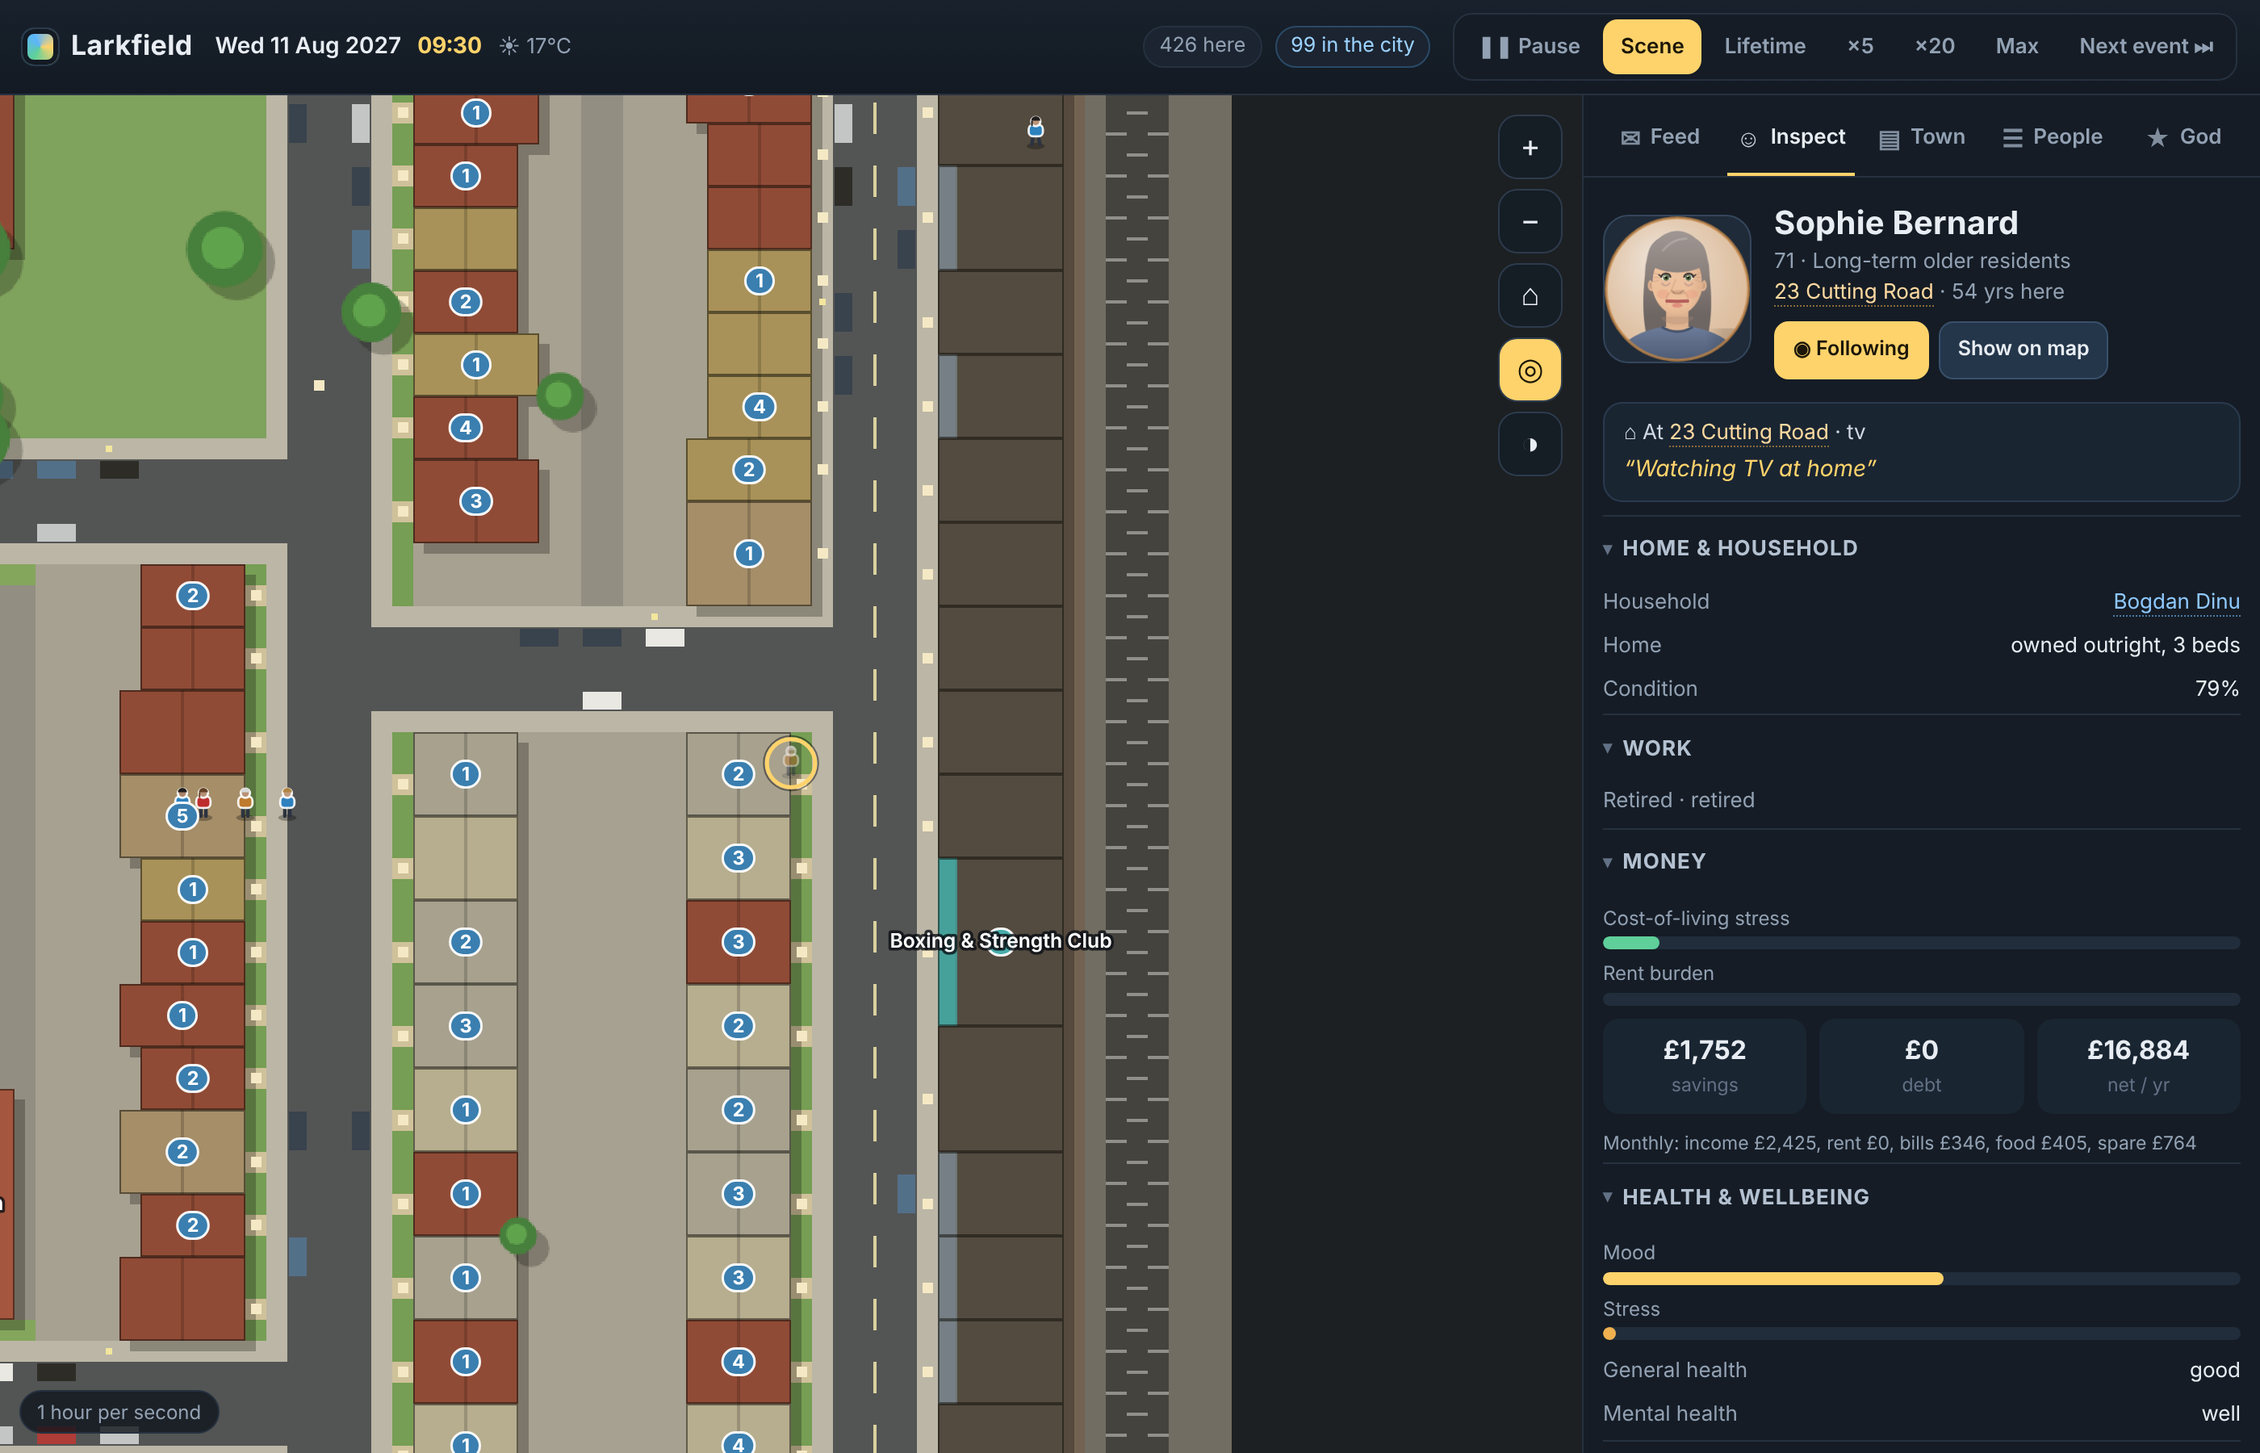
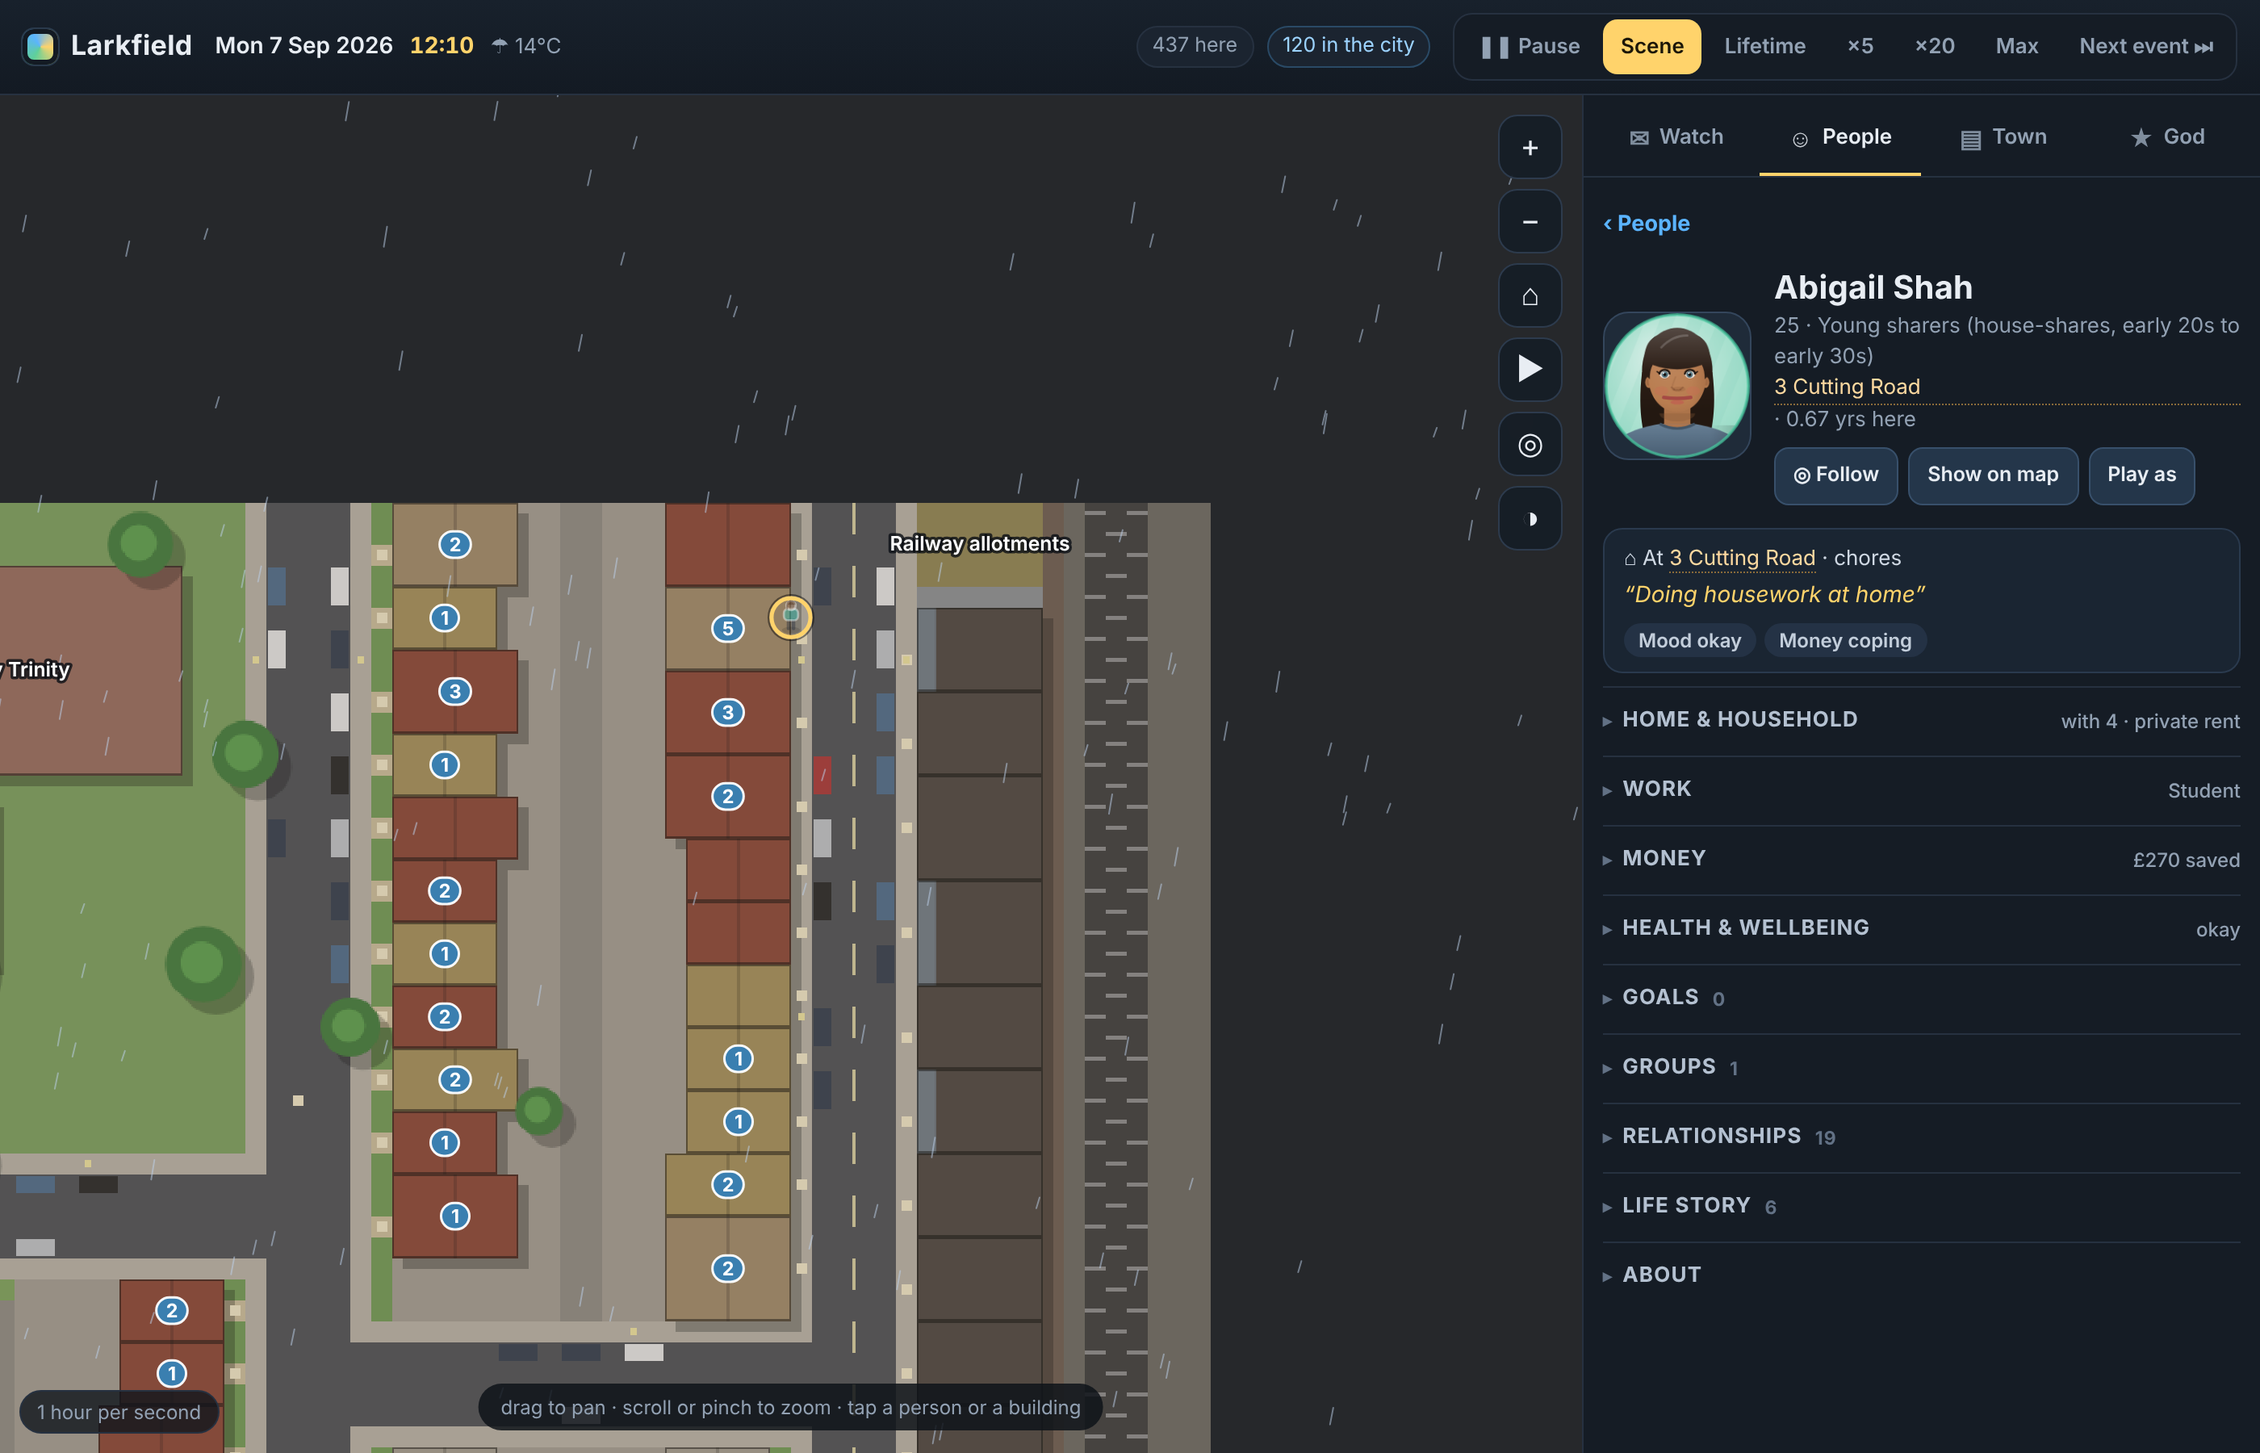
UX declutter: mobile-first top bar, 4 tabs, collapsible inspector, calmer map, request inbox
Claude-Session: https://claude.ai/code/session_01DcM8jrcfUiTx2JBZw8SC2u

diff --git a/ui/play/play.js b/ui/play/play.js
@@ -32,7 +32,7 @@ export function mountPlay(store, hooks) {
       <div class="pmini"><span title="Money">${gbp(s.money)}</span><span title="Energy"><i class="pbar"><b style="width:${Math.round(en * 100)}%;background:${en < 0.3 ? 'var(--bad)' : en < 0.55 ? 'var(--warn)' : 'var(--good)'}"></b></i></span><span title="Mood">${MOOD(s.mood)}</span></div>
       <button class="pdo" id="pdo">Do${req ? `<em>${req > 9 ? '9+' : req}</em>` : ''}</button>`;
     const r = s.reqs.find((x) => x.notable), rest = s.reqs.length - (r ? 1 : 0); // one weighty ask at a time; the rest wait in the Do menu inbox
-    if (r && sheet.hidden) { card.hidden = false; card.innerHTML = `<div class="pq"><b>${esc(r.from.name)}</b> ${esc(r.text)}${r.why ? `<small>${esc(cap(r.why))}</small>` : ''}</div><div class="pa"><button data-ans="yes">Yes</button><button data-ans="maybe">Maybe</button><button data-ans="no">Not now</button></div>${rest ? `<small class="pmore">${rest} more in your inbox</small>` : ''}`; card.dataset.rid = r.id; }
+    if (r && sheet.hidden) { card.hidden = false; card.innerHTML = `<div class="pq"><b>${esc(r.from.name)}</b> ${esc(r.text)}${r.why ? `<small>Trying to ${esc(r.why)}</small>` : ''}</div><div class="pa"><button data-ans="yes">Yes</button><button data-ans="maybe">Maybe</button><button data-ans="no">Not now</button></div>${rest ? `<small class="pmore">${rest} more in your inbox</small>` : ''}`; card.dataset.rid = r.id; }
     else card.hidden = true;
   }
   card.addEventListener('click', (e) => { const b = e.target.closest('[data-ans]'); if (!b) return; doit('player.respond', { request: +card.dataset.rid, answer: b.dataset.ans }); card.hidden = true; resume(); });
@@ -72,7 +72,7 @@ export function mountPlay(store, hooks) {
   // ---------------------------------------------------------------- views
   function menuView(s) {
     const here = s.here || [], inbox = s.reqs || [];
-    const ibx = inbox.length ? `<h5>Waiting for you <small>${inbox.length}</small></h5>${inbox.slice(0, 8).map((r) => `<div class="preq"><div class="pq"><b>${esc(r.from.name)}</b> ${esc(r.text)}${r.why ? `<small>${esc(cap(r.why))}</small>` : ''}</div><div class="pa"><button data-ans="yes" data-rid="${r.id}">Yes</button><button data-ans="maybe" data-rid="${r.id}">Maybe</button><button data-ans="no" data-rid="${r.id}">Not now</button></div></div>`).join('')}${inbox.length > 8 ? `<p class="pdim">${inbox.length - 8} more; they lapse if ignored.</p>` : ''}` : '';
+    const ibx = inbox.length ? `<h5>Waiting for you <small>${inbox.length}</small></h5>${inbox.slice(0, 8).map((r) => `<div class="preq"><div class="pq"><b>${esc(r.from.name)}</b> ${esc(r.text)}${r.why ? `<small>Trying to ${esc(r.why)}</small>` : ''}</div><div class="pa"><button data-ans="yes" data-rid="${r.id}">Yes</button><button data-ans="maybe" data-rid="${r.id}">Maybe</button><button data-ans="no" data-rid="${r.id}">Not now</button></div></div>`).join('')}${inbox.length > 8 ? `<p class="pdim">${inbox.length - 8} more; they lapse if ignored.</p>` : ''}` : '';
     return head(esc(s.name)) + `<div class="pbody">
       <p class="pthought">${esc(s.thought || '')}</p>${ibx}
       ${here.length ? `<h5>Here with you</h5><div class="pchips">${here.map((x) => `<button class="pchip" data-talk="${x.id}">${esc(x.name)}<small>${x.known ? warmWord(x.l) : 'stranger'}</small></button>`).join('')}</div>` : `<p class="pdim">${s.off ? 'You are away in the city.' : 'Nobody else is here right now.'}</p>`}

diff --git a/sim/systems/housing/index.js b/sim/systems/housing/index.js
@@ -208,7 +208,7 @@ export function createHousing() {
       else if (short === 0) hh.crowded = false;
       // student-let tenancies end with the course: once nobody in a student household is studying (graduated / dropped out / working) they give notice
       // at ~10%/month (12-month ASTs, graduate jobs elsewhere) and the unit goes back to the student market
-      if (hh.seg === 'students' && !isSharers(hh) && !hh.search && !hh.departAt && S.autoMoves && !ps.some((p) => p.ext.pop.activity === 'student') && rng.chance(0.10)) { hh.departAt = tick + rng.int(0, 2) * MONTH; hh.departWhy = 'graduated'; hh.departCause = 0; hh.departDest = 'elsewhere'; }
+      if (hh.seg === 'students' && !isSharers(hh) && !hh.search && !hh.departAt && S.autoMoves && !ps.some(studying) && rng.chance(0.10)) { hh.departAt = tick + rng.int(0, 2) * MONTH; hh.departWhy = 'graduated'; hh.departCause = 0; hh.departDest = 'elsewhere'; }
       if (!hh.search && !hh.departAt && S.autoMoves) {
         if (isSharers(hh)) { sharerRotation(hh, ps, adults, seg, rng); }
         else {
@@ -313,12 +313,13 @@ export function createHousing() {
       if (w.commands.has('labour.depart')) w.cmd('labour.depart', { pid: p.id }); p.emigrated = true; p.emigratedTick = w.tick; p.emigratedTo = 'metropolis'; w.removePerson(p); hh.members.push(p.id); S.stats.movedPersons++; S.moveLog.push([w.tick, Math.round(w.ageOf(p)), 'out']); void eid;
     }
   }
+  const studying = (p) => p.ext.pop.activity === 'student' || (p.ext.pop.school && (p.ext.pop.school.kind === 'university' || p.ext.pop.school.kind === 'college')); // working students still study
   function sharerRotation(hh, ps, adults, seg, rng) {
     const w = W, S = H(w), rate = hh.seg === 'students' ? 0.014 : hh.seg === 'young_sharers' ? 0.010 : 0.005;
     for (const p of adults) {
       // student-let tenancies end with the course: a former student (graduated, dropped out) in a student house gives notice at ~10%/month
       // (tenancy ends / graduate job elsewhere); the vacant room is re-let to the next cohort (pendingRooms)
-      const r = hh.seg === 'students' && p.ext.pop.activity !== 'student' ? 0.10 : rate;
+      const r = hh.seg === 'students' && !studying(p) ? 0.10 : rate;
       if (adults.length < 2 || !rng.chance(r)) continue;
       const age = w.ageOf(p), eid = w.emit('housing.moved_out', { actors: [p.id], place: hh.bid, objects: [hh.id], salience: 0.3, tags: ['housing', 'life', 'churn'], payload: { to: 'metropolis', reason: 'flatmate_rotation' } });
       if (w.commands.has('labour.depart')) w.cmd('labour.depart', { pid: p.id });

diff --git a/sim/systems/health/mental.js b/sim/systems/health/mental.js
@@ -15,8 +15,13 @@ export function supportOf(w, p) {
 function loneScore(w, p, age) {
   const hl = p.ext.hl, L = p.ext.life, q = p.ext.pop, hh = hhOf(w, p), E = p.personality.extraversion, N = p.personality.neuroticism;
   const live = hh ? hh.members.reduce((n, id) => { const x = w.people.get(id); return n + (x && x.alive ? 1 : 0); }, 0) : 1;
-  let iso = 0; if (live <= 1) iso += 0.5; if (age >= 75) iso += 0.25; if (L.mar === 'widowed' && L.widowedAt != null && yearsSince(w, L.widowedAt) < 4) iso += 0.45;
-  if (q.activity === 'unemployed' || q.activity === 'sick_disabled' || q.activity === 'other_inactive') iso += 0.3; if (q.health.limiting === 2) iso += 0.35;
+  // Circumstances that isolate BEYOND what the social plugin's contact score already counts. Not counted here (were double counts / unsupported):
+  //  - living alone (the score already subtracts household company), and
+  //  - age itself: ELSA/ONS analyses (Victor et al.; ONS 2018 'Loneliness - what characteristics and circumstances are associated') find the age gradient
+  //    of chronic loneliness among 65+ vanishes once widowhood, poor health and contact are controlled; ~5-15% of older people are often/always lonely.
+  // Kept: recent widowhood (Age UK/ELSA: widowed 5x as likely 'often lonely'), poor health limiting mobility, no work/routine, newcomer status, caring.
+  let iso = 0; if (L.mar === 'widowed' && L.widowedAt != null && yearsSince(w, L.widowedAt) < 4) iso += 0.45;
+  if (q.activity === 'unemployed' || q.activity === 'sick_disabled' || q.activity === 'other_inactive') iso += 0.3; if (q.health.limiting === 2) iso += 0.25;
   if (q.yearsAtAddress < 1.2 && q.seg === 'recent_arrivals') iso += 0.3; if (q.seg === 'recent_arrivals') iso += 0.15; if (L.caring) iso += 0.25;
   // contact-based: the social plugin's score (personal need for company vs support actually received through real contact, tie quality, household) + circumstances that isolate
   const sq = w.sys.social && w.sys.social.query; const sl = sq ? sq.loneliness(p.id) : 0.7 - 0.1 * Math.min(supportOf(w, p), 7);

diff --git a/ui/app.css b/ui/app.css
@@ -132,13 +132,13 @@ a.chip { background: #1a2532; border: 1px solid #2a3a4e; padding: 4px 10px; bord
   #speed button .pt { display: inline; }
   #layout { flex-direction: column; }
   #sidebar { position: absolute; left: 0; right: 0; bottom: 0; width: auto; max-width: none; border-left: 0; border-top: 1px solid #34465c; border-radius: 18px 18px 0 0; box-shadow: 0 -10px 30px rgba(0,0,0,.4); z-index: 6; transition: height .25s ease; padding-bottom: env(safe-area-inset-bottom); }
-  #sidebar[data-sheet="peek"] { height: 62px; } #sidebar[data-sheet="half"] { height: 42%; } #sidebar[data-sheet="full"] { height: 86%; }
+  #sidebar[data-sheet="peek"] { height: 62px; } #sidebar[data-sheet="half"] { height: 48%; } #sidebar[data-sheet="full"] { height: 86%; }
   #sidebar[data-sheet="peek"] #panes { display: none; }
   #grab { display: flex; justify-content: center; padding: 7px 0 2px; touch-action: none; } #grab i { width: 44px; height: 5px; border-radius: 9px; background: #3b4d63; }
   #tabs { padding: 0 6px; } #tabs button { flex-direction: column; gap: 0; padding: 3px 2px 4px; font-size: 11px; min-height: 46px; } #tabs button i { font-size: 16px; }
   #hud { top: 8px; right: 8px; } #hud button { width: 44px; height: 44px; }
   #speedinfo, #map-hint, #z-in, #z-out { display: none; } #ticker { right: 62px; left: 8px; font-size: 12.5px; }
-  #pcv { width: 68px !important; height: 68px !important; border-radius: 13px; } .phead { gap: 12px; } .pn h2 { font-size: 18px; } .pbtns button { min-height: 44px; } details.sec > summary { min-height: 44px; }
+  #pcv { width: 60px !important; height: 60px !important; border-radius: 13px; } .phead { gap: 12px; } .pn h2 { font-size: 18px; } .pn .sub { white-space: nowrap; overflow: hidden; text-overflow: ellipsis; } .pn { min-width: 0; } .pbtns { gap: 5px; } .pbtns button { padding: 6px 9px; } .pbtns button { min-height: 44px; } details.sec > summary { min-height: 44px; }
   .stat .sv { font-size: 21px; }
   #toast { bottom: calc(var(--sheet, 0px) + 12px); max-width: calc(100vw - 24px); }
 }

diff --git a/sim/systems/social/ties.js b/sim/systems/social/ties.js
@@ -116,7 +116,10 @@ export function maintain(w, S, p, r) {
   // loneliness: wanted contact vs the support actually received (partner/household count)
   const hh = q.hh != null ? w.lf.households[q.hh] : null, live = hh ? hh.members.length - 1 : 0;
   const need = 1 + 0.5 * (E - 0.5) + (age < 25 ? 0.25 : age > 78 ? 0.1 : 0) + 0.3 * (p.personality.neuroticism - 0.5);
-  const sup = supply * 0.1 + Math.min(live, 3) * 0.14 + (p.romance && p.romance.partnerId != null ? 0.3 : 0) + Math.min(ctc, 12) * 0.03;
+  // A partner / housemates are ALREADY tie-layer-1 members counted in `supply` (and in `ctc` through ~6 face-to-face contacts a week); only the extra value of
+  // someone being at home (company, availability) is added here. Earlier version added household (0.14 each) + partner (0.3) on top, triple-counting the
+  // partner, which made every older person living alone 'lonely' despite a full network (ELSA/ONS: loneliness tracks contact quality and widowhood, not household size alone).
+  const sup = supply * 0.1 + Math.min(live, 3) * 0.06 + Math.min(ctc, 12) * 0.03;
   ps.ls = clamp(ps.ls * 0.5 + 0.5 * (need - sup + 0.7), -1, 1.8);
   ps.sc = supply;
 }

diff --git a/ui/app.js b/ui/app.js
@@ -100,7 +100,7 @@ store.on('news', (items) => {
 });
 tick.addEventListener('click', () => { if (tick.dataset.pid) selectPerson(+tick.dataset.pid); });
 store.on('jumped', (it) => { $('jump').classList.remove('busy'); if (it) { toast(`<b>${esc(it.date)}</b> &mdash; ${esc(it.head)}`, 9000); if (it.ppl && it.ppl[0]) selectPerson(it.ppl[0].id); } else toast('Nothing notable happened for two years.'); });
-store.on('result', (r) => { toast(`${r.ok ? '★ ' : '⚠ '}<b>${esc(r.name)}</b> ${r.ok ? 'sent. Watch the Local feed for consequences.' : 'failed: ' + esc(r.error || 'rejected')}`, 5000); if (r.ok && store.s.tier === 'pause') setTier(prevTier || 'life'); });
+store.on('result', (r) => { toast(`${r.ok ? '★ ' : '⚠ '}<b>${esc(r.name)}</b> ${r.ok ? 'sent.' : 'failed: ' + esc(r.error || 'rejected')}`, 5000); if (r.ok && store.s.tier === 'pause') setTier(prevTier || 'life'); });
 
 // ------------------------------------------------------------------ selection
 const followBtn = $('z-follow');

diff --git a/ui/map.js b/ui/map.js
@@ -227,7 +227,7 @@ export class MapView {
     }
     if (z < 5) return;
     for (const [id, n] of this.occ) {
-      const b = this.byId.get(id); if (!b || !n) continue; if (['estate_green', 'park', 'allotments', 'school_grounds'].includes(b.type) && z < 6) continue; if (z < 8 && n < 2 && id !== this.selB) continue;
+      const b = this.byId.get(id); if (!b || !n) continue; if (['estate_green', 'park', 'allotments', 'school_grounds'].includes(b.type) && z < 6) continue; if (id !== this.selB && n < (z < 8 ? 4 : z < 12 ? 2 : 1)) continue;
       const [sx, sy] = this.toScreen(b.x + b.w / 2, b.y + b.h / 2); if (sx < -20 || sy < -20 || sx > this.w + 20 || sy > this.h + 20) continue;
       const col = b.kind === 'residential' ? '#3a7fb0' : b.cat ? CAT_COL[b.cat] || '#d9a441' : '#6b7a8a';
       const t = String(n), fs = clamp(z * 0.9, 10, 15); ctx.font = `700 ${fs}px system-ui`; const w = Math.max(fs * 1.5, ctx.measureText(t).width + 12), hgt = fs * 1.4;

diff --git a/ui/play/play.css b/ui/play/play.css
@@ -44,4 +44,4 @@
 .preq { background: var(--panel2); border-radius: 12px; padding: 8px 10px; margin-bottom: 6px; } .preq .pa { margin-top: 6px; } .preq .pa button { min-height: 44px; }
 body.playing #ticker { display: none; } .pa button { min-height: 44px; }
 #pcard .pq small { color: var(--mute); }
-@media (max-width: 820px) { #pstrip { top: max(8px, env(safe-area-inset-top)); } .pdo { min-height: 44px; } }
+@media (max-width: 820px) { .pdo { min-height: 44px; } }

diff --git a/ISSUES.md b/ISSUES.md
@@ -65,3 +65,5 @@ tests: goals/material/social determinism tests partly stale (3 pre-existing fail
   in elderly, parks busy, sleep worse, tempers) with causes.
 - Player conversations often neutral — talk outcomes need clearer, felt consequences.
 - Housing arrivals: export a proper makePerson so player creation uses the real generator (exact age).
+- NPCs never ask the player anything naturally (0 requests in 60 days for a taken-over resident); earlier cards were
+  injected. NPC goals should target the player like any other tie (favours, invites, borrowing, dates).
